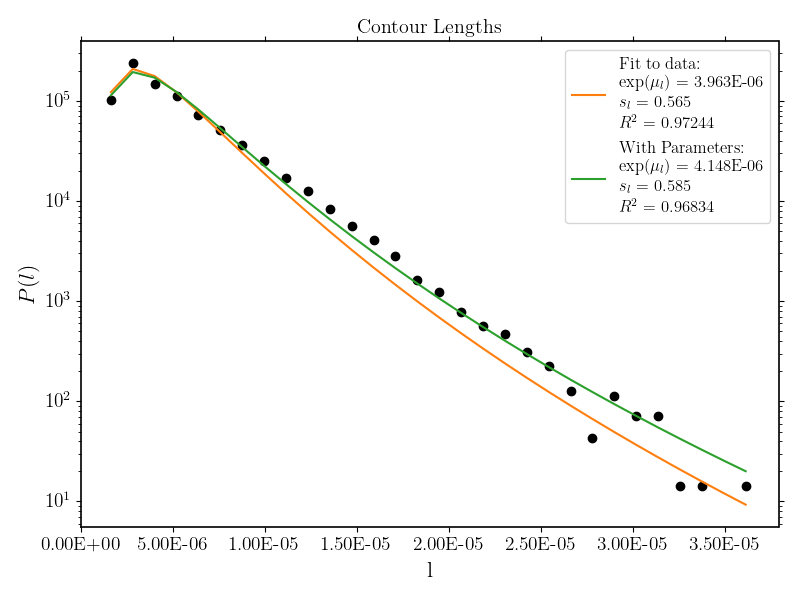
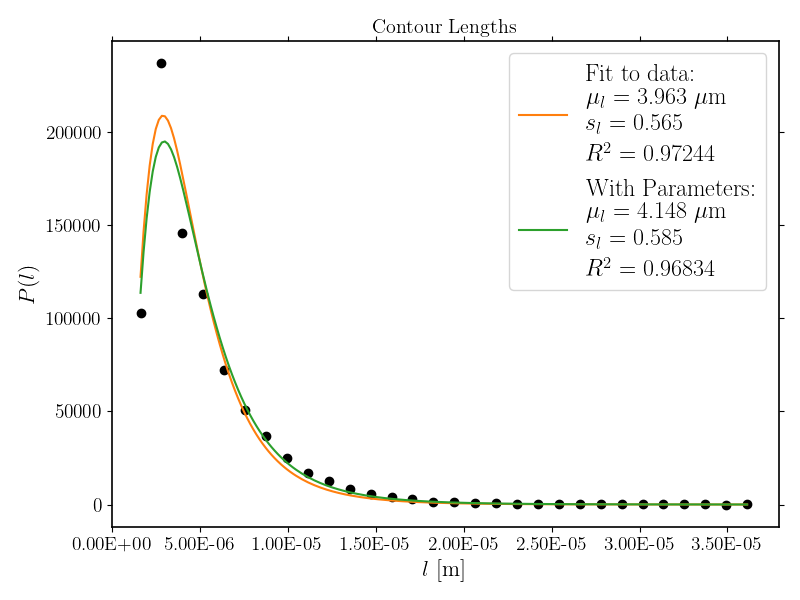
Add distributions with iShort2 for polysaccharides.

diff --git a/Chapters/Chapter-Image.tex b/Chapters/Chapter-Image.tex
@@ -1229,19 +1229,19 @@ export HISTO_CONTOUR_BINS=30
   \end{subfigure}%
   \begin{subfigure}{0.5\textwidth}
     \centering
-    \includegraphics[width=0.99\linewidth]{Figures/chapter-image/pipeline_screenshots/carra_cosines_tile1_c_m_iPA_iShort1_bins21.png}
+    \includegraphics[width=0.99\linewidth]{Figures/chapter-image/pipeline_screenshots/carra_cosines_tile1_c_m_iPA_iShort2_bins21.png}
     \caption{Director cosines. Truncated (3) power-series.}
     \label{subfig:carra_cosines}
   \end{subfigure}\\[1ex]
   \begin{subfigure}{0.5\textwidth}
     \centering
-    \includegraphics[width=0.99\linewidth]{Figures/chapter-image/pipeline_screenshots/carra_ete_distance_tile1_c_m_iPA_iShort1_bins30.png}
+    \includegraphics[width=0.99\linewidth]{Figures/chapter-image/pipeline_screenshots/carra_ete_distance_tile1_c_m_iPA_iShort2_bins50.png}
     \caption{End-to-End node distances. Log-normal}
     \label{subfig:carra_ete}
   \end{subfigure}%
   \begin{subfigure}{0.5\textwidth}
     \centering
-    \includegraphics[width=0.99\linewidth]{Figures/chapter-image/pipeline_screenshots/carra_contour_length_tile1_c_m_iPA_iShort1_bins30.png}
+    \includegraphics[width=0.99\linewidth]{Figures/chapter-image/pipeline_screenshots/carra_contour_length_tile1_c_m_iPA_iShort2_bins50.png}
     \caption{Contour lengths. Log-normal}
     \label{subfig:carra_contour}
   \end{subfigure}
@@ -1337,19 +1337,19 @@ export HISTO_CONTOUR_BINS=30
   \end{subfigure}%
   \begin{subfigure}{0.5\textwidth}
     \centering
-    \includegraphics[width=0.99\linewidth]{Figures/chapter-image/pipeline_screenshots/pectin_cosines_c_m_iPA_iShort1_bins21.png}
+    \includegraphics[width=0.99\linewidth]{Figures/chapter-image/pipeline_screenshots/pectin_cosines_c_m_iPA_iShort2_bins21.png}
     \caption{Director cosines. Truncated (3) power-series.}
     \label{subfig:pectin_cosines}
   \end{subfigure}\\[1ex]
   \begin{subfigure}{0.5\textwidth}
     \centering
-    \includegraphics[width=0.99\linewidth]{Figures/chapter-image/pipeline_screenshots/pectin_ete_distance_c_m_iPA_iShort1_bins30.png}
+    \includegraphics[width=0.99\linewidth]{Figures/chapter-image/pipeline_screenshots/pectin_ete_distance_c_m_iPA_iShort2_bins50.png}
     \caption{End-to-End node distances. Log-normal}
     \label{subfig:pectin_ete}
   \end{subfigure}%
   \begin{subfigure}{0.5\textwidth}
     \centering
-    \includegraphics[width=0.99\linewidth]{Figures/chapter-image/pipeline_screenshots/pectin_contour_length_c_m_iPA_iShort1_bins30.png}
+    \includegraphics[width=0.99\linewidth]{Figures/chapter-image/pipeline_screenshots/pectin_contour_length_c_m_iPA_iShort2_bins50.png}
     \caption{Contour lengths. Log-normal}
     \label{subfig:pectin_contour}
   \end{subfigure}
